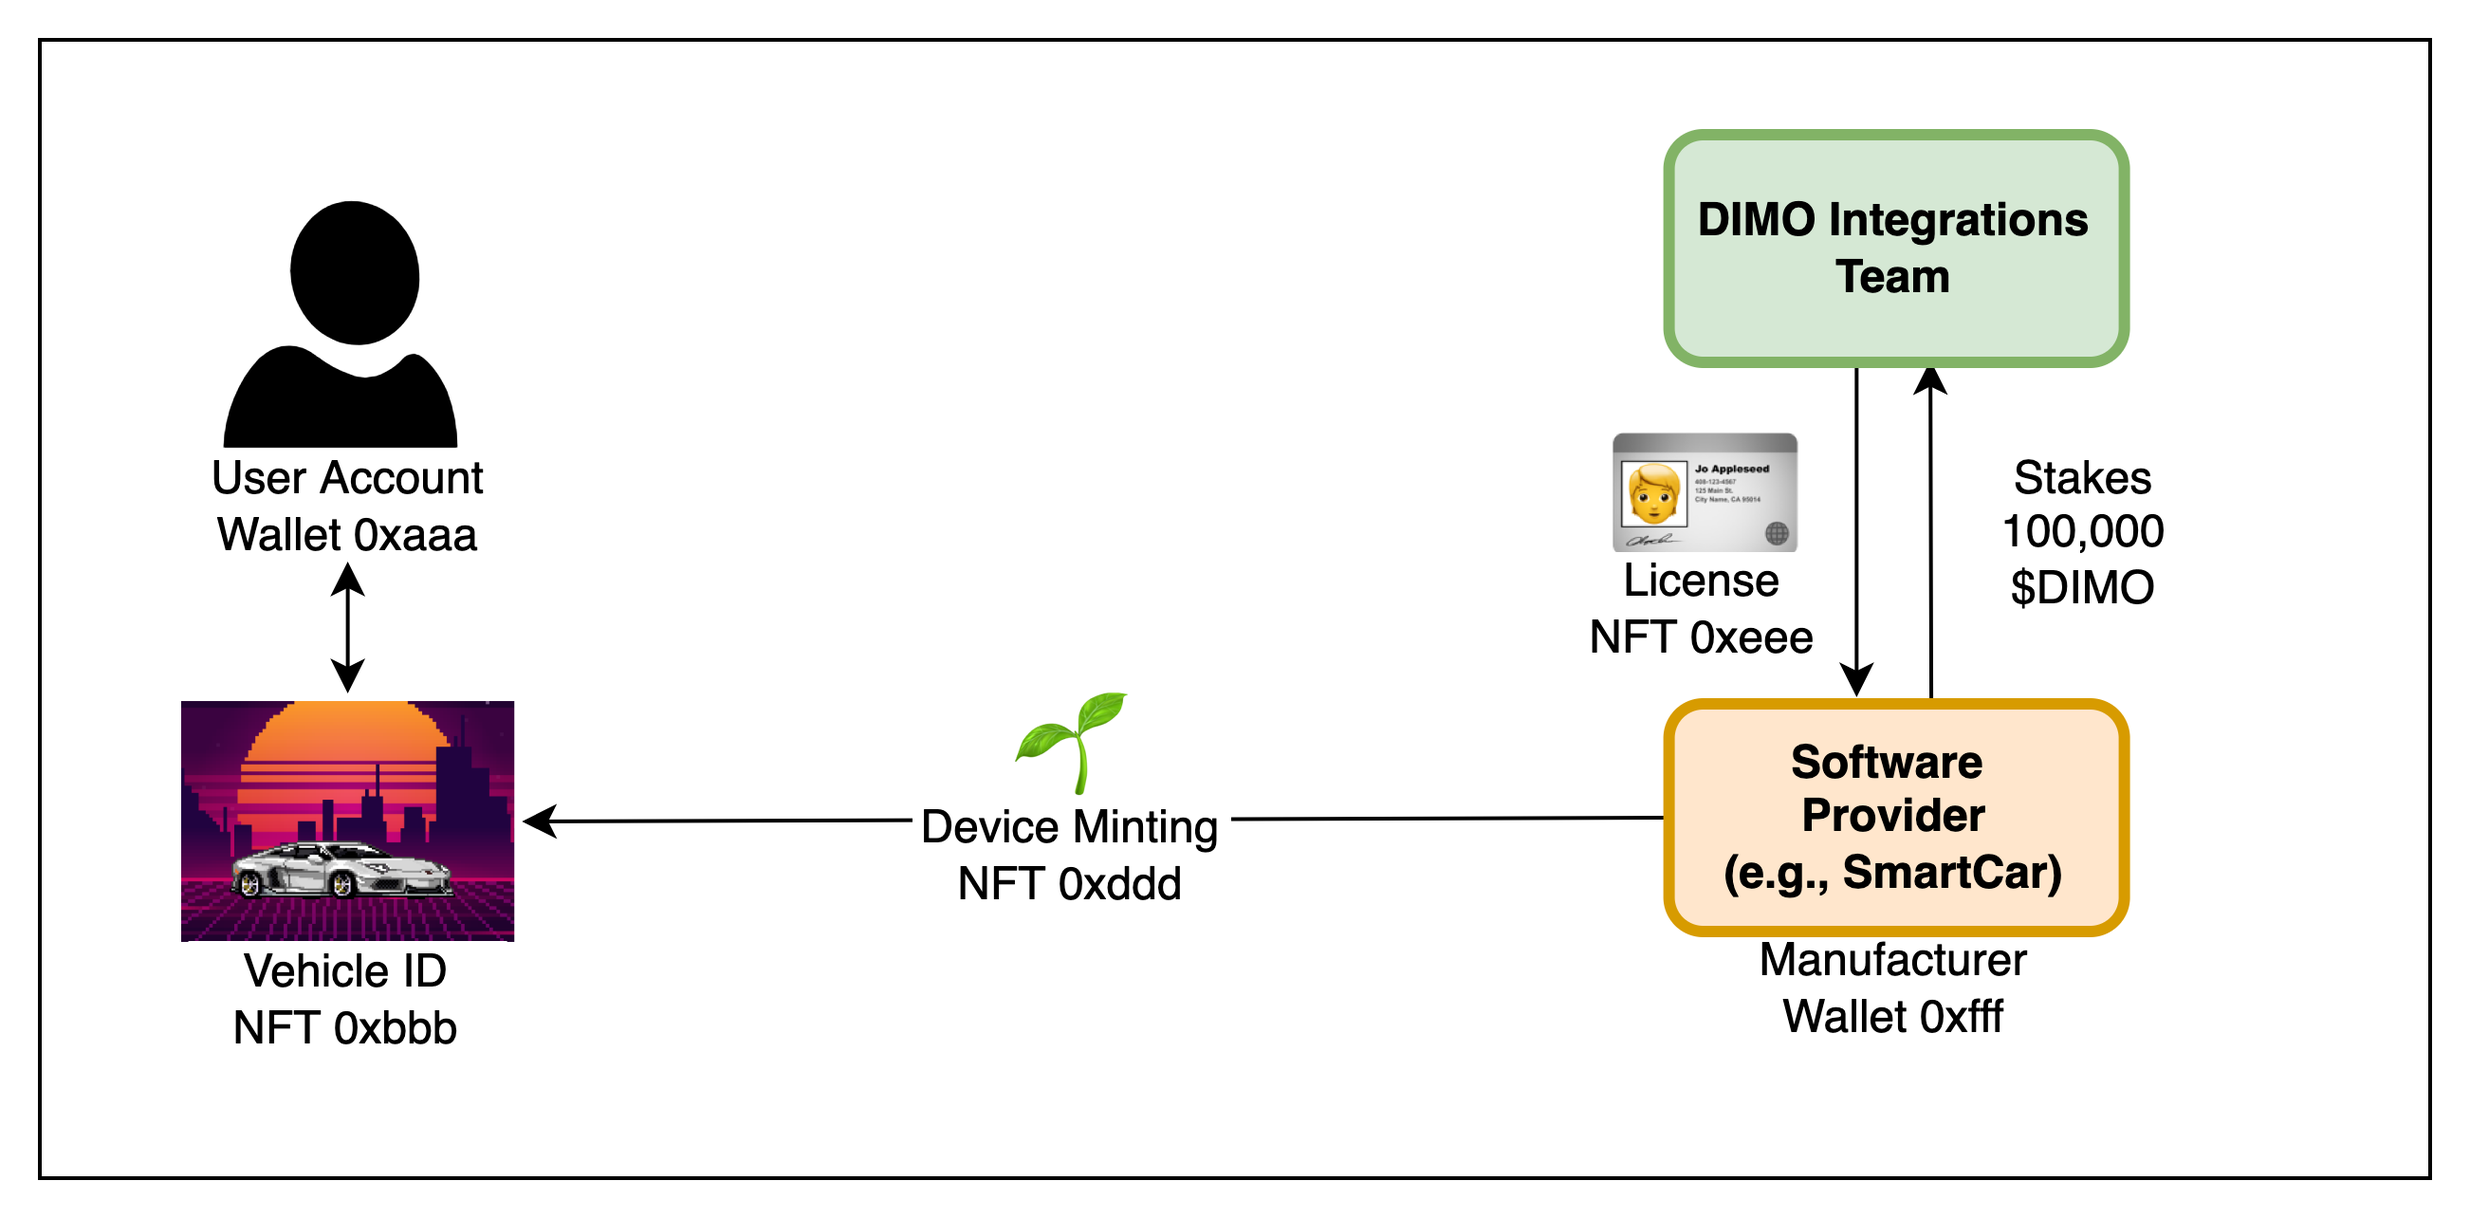
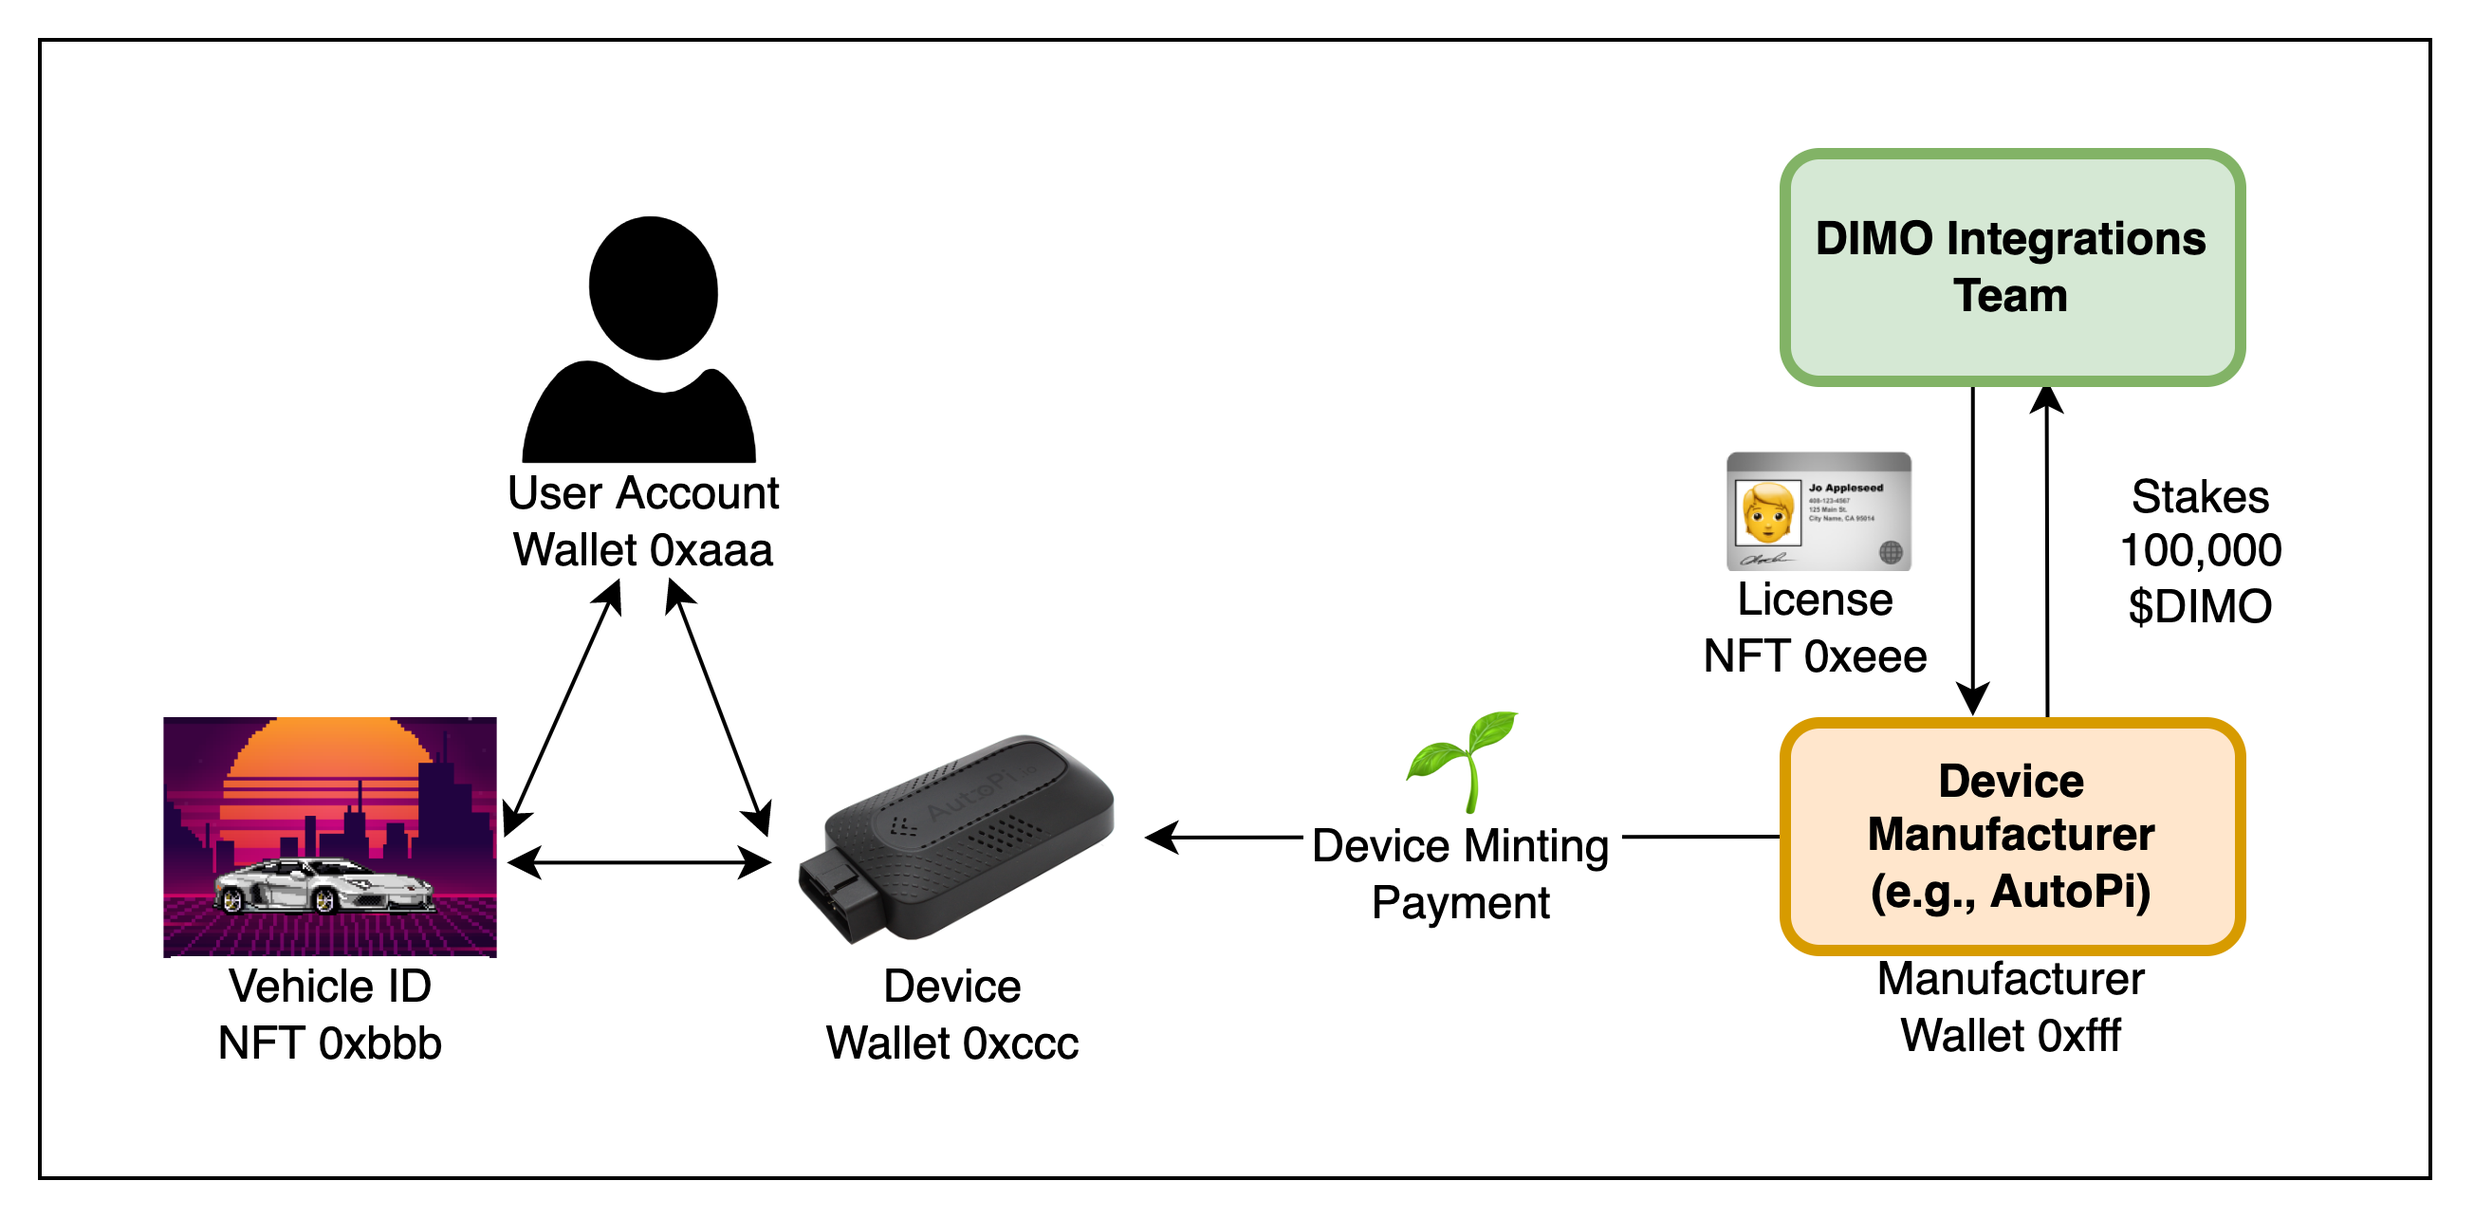
GitBook: [#108] No subject

Changed region(s): [[0.0622, 0.0935, 0.9332, 0.8723], [0.0933, 0.1558, 0.3111, 0.4984]]

diff --git a/dip-4-device-integrations.md b/dip-4-device-integrations.md
@@ -113,18 +113,19 @@ _Integration Types_&#x20;
 
 New device types may be added at any time by DIMO Integrations. The initial device categories include.
 
-| Device Type     | Concept Image                                                                                                                                                                                                                | Description                                                                                               | Typical Price Point                                                                    |
-| --------------- | ---------------------------------------------------------------------------------------------------------------------------------------------------------------------------------------------------------------------------- | --------------------------------------------------------------------------------------------------------- | -------------------------------------------------------------------------------------- |
-| Software Only   | N/A                                                                                                                                                                                                                          | Leverages existing vehicle subscription programs and their APIs to establish a baseline of connectivity   | No added charge. Vehicle manufacturer (e.g., Ford, BMW) may charge a subscription fee. |
-| Standard Dongle | <img src="https://lh4.googleusercontent.com/GRTqY_WLRyeZOLP1pVBYfSYdGVUWt1PkoETQV6RMpp9dv9J6eBachCMRinU0xTLmllv5FqrXc8HwsaIHoxTS3Iu6sz7MmxaB9SELzz2A5lGaXZ7vTFR0DIGKLzBK31NezvVeTh506XH9k-kG6dP8eg" alt="" data-size="line"> | Records vehicle data from the CAN bus, stand-alone connectivity                                           | $350                                                                                   |
-| Hub             | <img src="https://lh6.googleusercontent.com/cW34tdb4DmfURDEFbWxoxj5ERDEnqZHH2dsUASFow2t-xKnmK1hxqO3rW6PCSvZ6mR5BsoYcbaQk-rJqlDaouSZsjcpehE2iIDjkt0s5syt9VMT1XL0XRlT0qh00mwwVSA-h9io-mOh4EX9Al6Ldpg" alt="" data-size="line"> | IoT hub that enables long term local storage and backup of data, as well as cheaper dongle and dash cams. | $500                                                                                   |
-| Dash Camera     | <img src="https://lh6.googleusercontent.com/iHX9U2U_0JmIAT9N6wWHBLrbaeBgSmAe0BOQl-AidpMPL6sYyUN0-L4glSSDJpbtae7zMV4lDKNqsE1Sno6nt5kvvr1Vq-8Q_XDzT9C-HIh_ySkiKT7ZFjpLnMMohFqSotMraAwn1VgRehEiAHRpYQ" alt="" data-size="line"> | Device that records camera footage and possibly other telemetry                                           | $500                                                                                   |
-| Fleet Device    | <img src="https://lh4.googleusercontent.com/5GZ6wu9JU1rmER4U0qvBEsCdZ4EyCfSwlHNuy7ap1eN807pdaKGttS2RSnNF2Ic0mr73AMnbxgKYiq124gEkfOCQUqwRGDBx66_CajHhfXEXjfBBb9hsb5Leg4OZ5ewSK2uKH_gzjt-RGhyPXECMpg" alt="" data-size="line"> | Telemetry devices designed for commercial use                                                             | $1,000                                                                                 |
-| AI Device       | <img src="https://lh6.googleusercontent.com/wKACXQZGzx-nPAWv3ks_rD0yr36c4W9k470JyfYbijs6RbY6crv0XLXKJ9jET5Eg0nvS_wzsRYtSnQKFpbiLI0c6w8jnl9YUmbVEISXcn3E0nP6LIEwWY1lEUZMVztYiHiCxvpQqY6IUx_kLtu1ECw" alt="" data-size="line"> | Device that supplements enhanced driving features (e.g., Comma AI)                                        | $2,000                                                                                 |
+| Device Type             | Concept Image                                                                                                                                                                                                                | Description                                                                                               | Typical Price Point                                                                    |
+| ----------------------- | ---------------------------------------------------------------------------------------------------------------------------------------------------------------------------------------------------------------------------- | --------------------------------------------------------------------------------------------------------- | -------------------------------------------------------------------------------------- |
+| Software Only           | N/A                                                                                                                                                                                                                          | Leverages existing vehicle subscription programs and their APIs to establish a baseline of connectivity   | No added charge. Vehicle manufacturer (e.g., Ford, BMW) may charge a subscription fee. |
+| <p>Micro <br>Dongle</p> | <img src=".gitbook/assets/image (1).png" alt="" data-size="line">                                                                                                                                                            | Records vehicle data from the Can bus, piggybacks off user's cellphone                                    | $50                                                                                    |
+| Standard Dongle         | <img src="https://lh4.googleusercontent.com/GRTqY_WLRyeZOLP1pVBYfSYdGVUWt1PkoETQV6RMpp9dv9J6eBachCMRinU0xTLmllv5FqrXc8HwsaIHoxTS3Iu6sz7MmxaB9SELzz2A5lGaXZ7vTFR0DIGKLzBK31NezvVeTh506XH9k-kG6dP8eg" alt="" data-size="line"> | Records vehicle data from the CAN bus, stand-alone connectivity                                           | $350                                                                                   |
+| Hub                     | <img src="https://lh6.googleusercontent.com/cW34tdb4DmfURDEFbWxoxj5ERDEnqZHH2dsUASFow2t-xKnmK1hxqO3rW6PCSvZ6mR5BsoYcbaQk-rJqlDaouSZsjcpehE2iIDjkt0s5syt9VMT1XL0XRlT0qh00mwwVSA-h9io-mOh4EX9Al6Ldpg" alt="" data-size="line"> | IoT hub that enables long term local storage and backup of data, as well as cheaper dongle and dash cams. | $500                                                                                   |
+| Dash Camera             | <img src="https://lh6.googleusercontent.com/iHX9U2U_0JmIAT9N6wWHBLrbaeBgSmAe0BOQl-AidpMPL6sYyUN0-L4glSSDJpbtae7zMV4lDKNqsE1Sno6nt5kvvr1Vq-8Q_XDzT9C-HIh_ySkiKT7ZFjpLnMMohFqSotMraAwn1VgRehEiAHRpYQ" alt="" data-size="line"> | Device that records camera footage and possibly other telemetry                                           | $500                                                                                   |
+| Fleet Device            | <img src="https://lh4.googleusercontent.com/5GZ6wu9JU1rmER4U0qvBEsCdZ4EyCfSwlHNuy7ap1eN807pdaKGttS2RSnNF2Ic0mr73AMnbxgKYiq124gEkfOCQUqwRGDBx66_CajHhfXEXjfBBb9hsb5Leg4OZ5ewSK2uKH_gzjt-RGhyPXECMpg" alt="" data-size="line"> | Telemetry devices designed for commercial use                                                             | $1,000                                                                                 |
+| AI Device               | <img src="https://lh6.googleusercontent.com/wKACXQZGzx-nPAWv3ks_rD0yr36c4W9k470JyfYbijs6RbY6crv0XLXKJ9jET5Eg0nvS_wzsRYtSnQKFpbiLI0c6w8jnl9YUmbVEISXcn3E0nP6LIEwWY1lEUZMVztYiHiCxvpQqY6IUx_kLtu1ECw" alt="" data-size="line"> | Device that supplements enhanced driving features (e.g., Comma AI)                                        | $2,000                                                                                 |
 
 #### Connection Specifications&#x20;
 
-The following are minimum device specifications as set by the DIMO Community in this DIP, which may only be amended by a future DIP. Except for the ways specified in the table below, DIMO Integrations may not alter these requirements, but it may add additional specifications that go above and beyond, particularly for certain device types (e.g., dash cams may have additional specifications related to privacy and compression).
+The following are minimum device specifications. Except for the ways specified in the table below, DIMO Integrations may not alter these requirements, but it may add additional specifications that go above and beyond, particularly for certain device types (e.g., dash cams may have additional requirements related to privacy and compression).
 
 Both Hardware & Software
 
@@ -146,7 +147,7 @@ Hardware Only&#x20;
 
 #### Licenses & Staking&#x20;
 
-Licenses are NFTs that can only be minted or transferred by DIMO Integrations. These certify the integration provider meets all required qualifications required and has been whitelisted for the production of compatible devices. After receiving a license, the integration provider is required to submit a deposit of 100,000 $DIMO tokens (the “stake”). **The DIMO protocol will check both the NFT license and the on-chain stake balance to determine if a provider is licensed or not.**
+Licenses are NFTs that can only be minted or transferred by DIMO Integrations. These certify the integration provider meets all required qualifications required and has been whitelisted for the production of compatible devices. After receiving a license, the integration provider is required to submit a deposit of 100,000 $DIMO tokens (the “stake”). For more on how this works, see [License NFT](https://app.gitbook.com/s/fmY0p4toAb7e89toAV2R/protocol/license-nft "mention").
 
 ![](<.gitbook/assets/image (6).png>)
 
@@ -166,42 +167,31 @@ Through a governance vote, DIMO token holders have the ability to ban devices fr
 
 For physical hardware, licensed manufacturers pay a set amount of $DIMO to mint a device and enable it to connect to the $DIMO network.
 
-<figure><img src=".gitbook/assets/image (1).png" alt=""><figcaption></figcaption></figure>
+<figure><img src=".gitbook/assets/image (1) (1).png" alt=""><figcaption></figcaption></figure>
 
 Why add this complexity? To align the incentives of various stakeholders, the $DIMO payment is set aside. Each month that the connection persists, the integration provider receives some of that $DIMO back as rebate for twenty four months until they earn back 70%.&#x20;
 
-As the manufacturer earns, the DIMO Integrations team will get a small cut as well. The DIMO Treasury keeps any $DIMO that isn't returned to the manufacturer or integrations team. See [Rewards Calculation for DIMO Integrations Team](dip-4-device-integrations.md#rewards-calculation-for-dimo-integrations-team) for more information on this calculation.
+As the manufacturer earns, the DIMO Integrations team will get a small cut as well. The DIMO Treasury keeps any $DIMO that isn't returned to the manufacturer or integrations team. This arrangement will be defined in the upcoming DIMO Integrations resource allocation DIP.
 
-This rebate mechanism ensures that integration providers and DIMO Integrations are long-term holders of $DIMO and that they have an incentive to produce resilient devices and services that users will love and want to keep connected.
+This rebate mechanism ensures that both integration providers and DIMO Integrations are long-term holders of $DIMO and that they have an incentive to produce resilient devices and services that users will love and want to keep connected.
 
 <figure><img src=".gitbook/assets/image.png" alt=""><figcaption></figcaption></figure>
 
-#### Quantity and Cost of Device Minting NFTs&#x20;
+#### Cost of Device Minting
 
-The availability and amount of DIMO required for a device minting NFT varies by device type. Quantities may (and will) be increased by a future vote of $DIMO holders. It’s likely that constraints will be lifted altogether and any licensed integrations provider will be able to mint as many as needed, when needed.
+The amount of DIMO required for device minting varies by device type.
 
 | Type            | Description                                                                                               | Cost (in $DIMO) |
 | --------------- | --------------------------------------------------------------------------------------------------------- | --------------- |
 | Software Only   | Leverages existing vehicle subscription programs and their APIs to establish a baseline of connectivity   | 0               |
+| Micro Dongle    | Records vehicle data from the Can bus, piggybacks off user's cellphone                                    | 30              |
 | Standard Dongle | Records vehicle data from the CAN bus, stand-alone connectivity                                           | 50              |
 | Hub             | IoT hub that enables long term local storage and backup of data, as well as cheaper dongle and dash cams. | 70              |
 | Dash Camera     | Device that records camera footage and possibly other telemetry                                           | 80              |
 | Fleet Device    | Telemetry devices designed for commercial use                                                             | 120             |
 | AI Device       | Device that supplements enhanced driving features (e.g., Comma AI)                                        | 150             |
 
-Similar to the stake required for licensing, device minting NFTs may be provided by financing partners, such as a distributor.&#x20;
-
-#### Rewards Calculation for DIMO Integrations Team
-
-The reward to DIMO Integrations is calculated using a reverse bonding curve that decreases the proportional reward over time. The curve is established for each device type. This is done in order to incentivize the team to do the difficult work of establishing new device categories and getting them to critical mass.
-
-![](<.gitbook/assets/image (4).png>)
-
-The formula to determine the % reward of the staked $DIMO from Device Minting NFTs that DIMO Integrations is eligible to receive as a reward is calculated as:
-
-> _<mark style="color:blue;">Reward for a single NFT if connected for two years = Price of NFT \* maximum of ( 0.1% OR 15% \* (99.9999% ^ (# of that NFT type sold - 1)))</mark>_
-
-![](https://lh3.googleusercontent.com/eH4Vxl2ckdKGTP03fJRNVf-X4tdfggL9MjQbUhL9Rdq3zNafL-02G\_Kyn0oxHxaDsIWhTSl8HQAm3CbfqPjw3EAs9T9NRzV73GYdC\_T6gWHixBLxo-pxoAxBN5dU5rkp9Eo-1ektI2AVIsqwNRS8rY4)
+Similar to the stake required for licensing, device minting costs may be covered by financing partners, such as a distributor.&#x20;
 
 #### Pairing & Connectivity
 
@@ -217,14 +207,22 @@ These rates can be applied to any approved device, and manufacturers can choose 
 
 ## Implementation&#x20;
 
-If passed, this DIP-3 will be in effect immediately after the four day time lock concludes. The newly formed DIMO Integration Committee will be responsible for the implementation of the programs and procedures introduced in this document.
+If passed, the newly formed DIMO Integrations team will be responsible for the implementation of the programs and procedures introduced in this document.
 
 ## Copyright&#x20;
 
 Copyright and related rights waived via CC0
 
-## Citation&#x20;
+## Citation
 
 Please cite this document as:
 
-Andy Chatham, Rob Solomon, Diego Moro, "DIP-3: Device Integrations", no. 3, May 2022. \[Online serial]. Available: \[https://github.com/DIMO-Network/DIP]
+The DIMO Foundation, "DIP-4: Device Integration", no. 4, December 2022. \[Online serial]. Available: \[[https://github.com/DIMO-Network/DIP](https://github.com/DIMO-Network/DIP)]
+
+## Changelog
+
+None
+
+## Disclaimer
+
+The contract addresses for $DIMO are [0x5fab9761d60419c9eeebe3915a8fa1ed7e8d2e1b](https://etherscan.io/token/0x5fab9761d60419c9eeebe3915a8fa1ed7e8d2e1b) on Ethereum and [0xE261D618a959aFfFd53168Cd07D12E37B26761db](https://polygonscan.com/token/0xE261D618a959aFfFd53168Cd07D12E37B26761db) on Polygon. Please always confirm that you are interacting with these contract addresses and not those of a fraudulent imitator. This proposal may not be enacted if it violates Cayman Islands law. Please triple check that any communications are authentic as it’s common for scammers to try to trick you into sending them crypto or into revealing your private keys.
